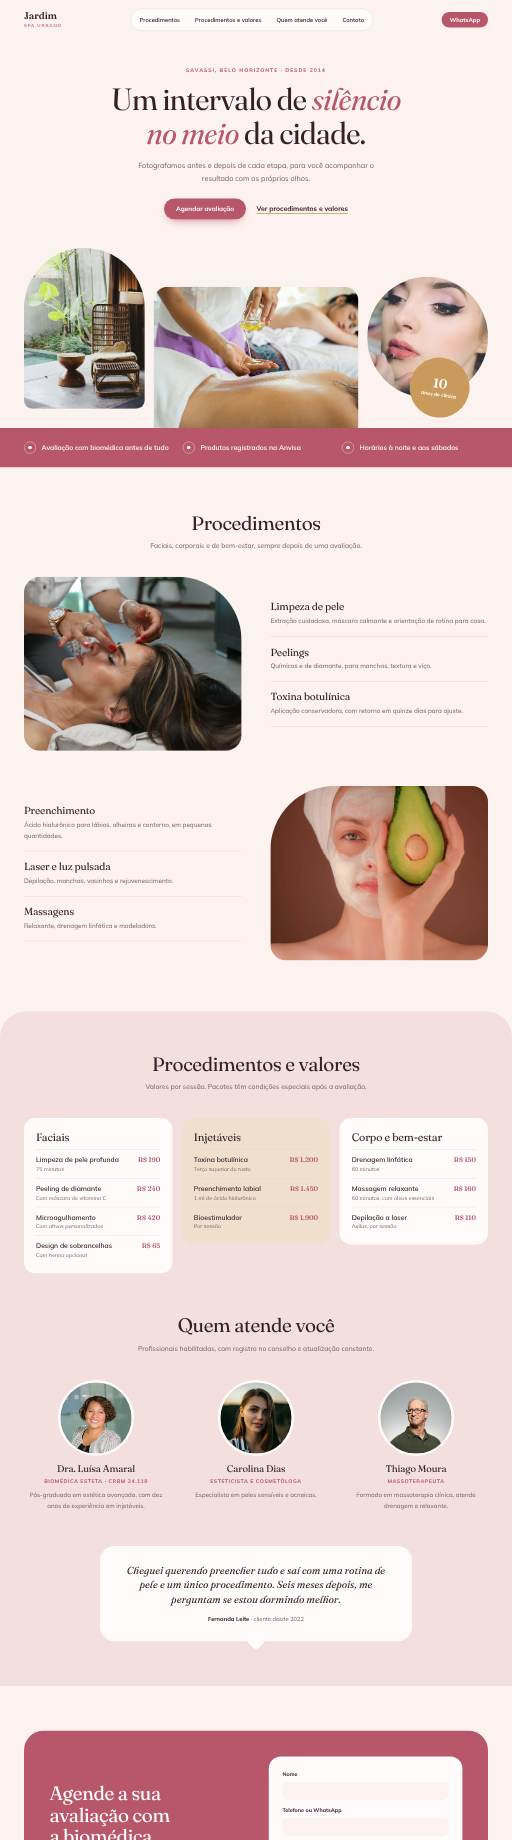
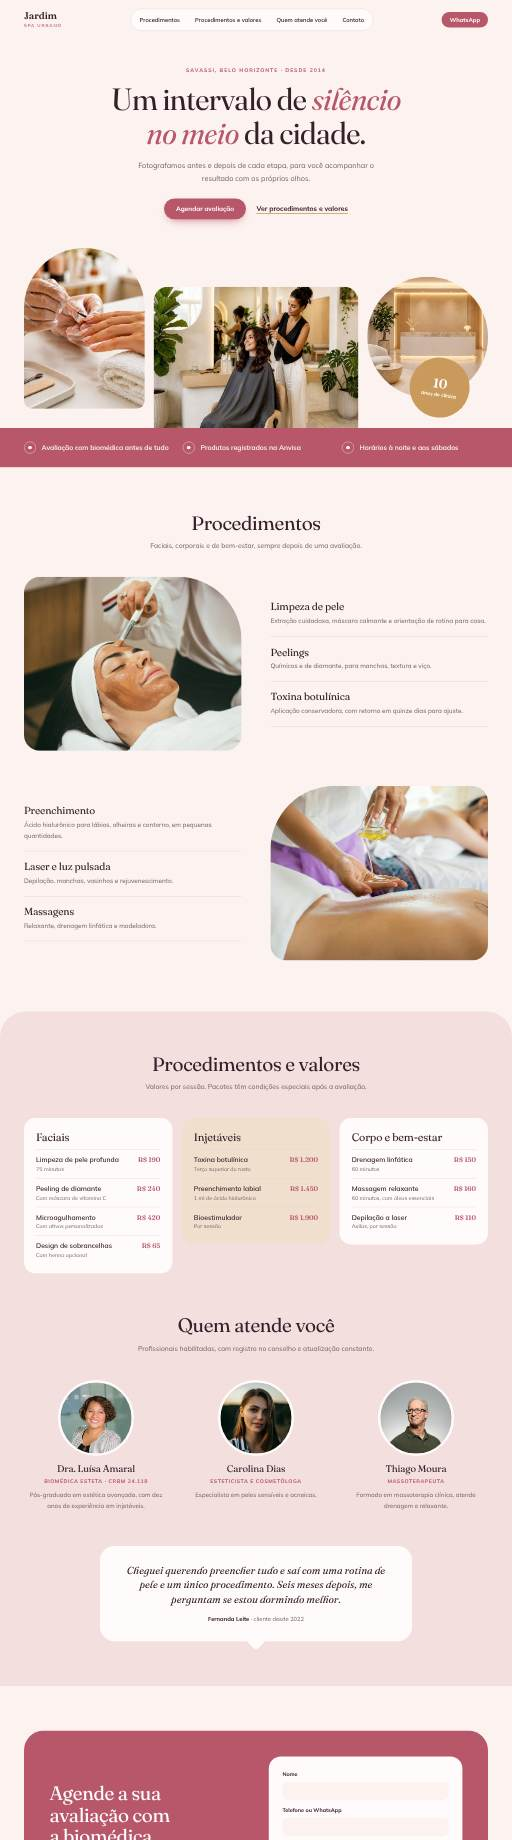
Bring estetica to 10 photos
Claude-Session: https://claude.ai/code/session_0151Yi9K8yWSyYvoKWm1KgPz

Changed region(s): [[0.0312, 0.1239, 0.9688, 0.2478], [0.0312, 0.3098, 0.5, 0.4337], [0.5, 0.4027, 0.9688, 0.5266]]

diff --git a/kolp-modelos/demo/estetica-07/index.html b/kolp-modelos/demo/estetica-07/index.html
@@ -35,7 +35,7 @@
       <p class="lide">Atendimento com hora marcada e sem espera, de segunda a sábado, com horários à noite.</p>
       <div class="acoes"><a class="botao" href="#contato">Agendar avaliação</a><a class="elo" href="#servicos">Ver procedimentos e valores</a></div>
     </div>
-    <figure class="arco"><img src="../../fotos/estetica/1.jpg" alt="" width="1400" height="930"><figcaption>Desde 2014</figcaption></figure>
+    <figure class="arco"><img src="../../fotos/estetica/7.jpg" alt="" width="1400" height="930"><figcaption>Desde 2014</figcaption></figure>
   </div>
   <div class="largura"><dl class="indices"><div><dd>10</dd><dt>anos de clínica</dt></div><div><dd>12 mil</dd><dt>procedimentos realizados</dt></div><div><dd>86%</dd><dt>das clientes voltam em até seis meses</dt></div><div><dd>4,9</dd><dt>nota média no Google</dt></div></dl></div>
   </section>
@@ -43,7 +43,7 @@
     <header class="topo rev"><h2>Procedimentos</h2><p>Faciais, corporais e de bem-estar, sempre depois de uma avaliação.</p></header>
     <ol class="cartoes"><li class="rev"><h3>Limpeza de pele</h3><p>Extração cuidadosa, máscara calmante e orientação de rotina para casa.</p></li><li class="rev"><h3>Peelings</h3><p>Químicos e de diamante, para manchas, textura e viço.</p></li><li class="rev"><h3>Toxina botulínica</h3><p>Aplicação conservadora, com retorno em quinze dias para ajuste.</p></li><li class="rev"><h3>Preenchimento</h3><p>Ácido hialurônico para lábios, olheiras e contorno, em pequenas quantidades.</p></li><li class="rev"><h3>Laser e luz pulsada</h3><p>Depilação, manchas, vasinhos e rejuvenescimento.</p></li><li class="rev"><h3>Massagens</h3><p>Relaxante, drenagem linfática e modeladora.</p></li></ol>
   </div></section>
-  <section class="faixa rev"><img src="../../fotos/estetica/2.jpg" alt="" width="1400" height="930" loading="lazy"><p>“Resultado natural é aquele que ninguém percebe que foi feito”</p></section>
+  <section class="faixa rev"><img src="../../fotos/estetica/8.jpg" alt="" width="1400" height="930" loading="lazy"><p>“Resultado natural é aquele que ninguém percebe que foi feito”</p></section>
   <section class="precos" id="precos"><div class="largura precos-grade">
     <div class="precos-lado rev"><h2>Procedimentos e valores</h2><p>Valores por sessão. Pacotes têm condições especiais após a avaliação.</p><a class="botao" href="#contato">Agendar avaliação</a></div>
     <div class="rev"><details open><summary>Faciais</summary><ul><li><div><b>Limpeza de pele profunda</b><span>75 minutos</span></div><strong>R$ 190</strong></li><li><div><b>Peeling de diamante</b><span>Com máscara de vitamina C</span></div><strong>R$ 240</strong></li><li><div><b>Microagulhamento</b><span>Com ativos personalizados</span></div><strong>R$ 420</strong></li><li><div><b>Design de sobrancelhas</b><span>Com henna opcional</span></div><strong>R$ 65</strong></li></ul></details><details><summary>Injetáveis</summary><ul><li><div><b>Toxina botulínica</b><span>Terço superior do rosto</span></div><strong>R$ 1.200</strong></li><li><div><b>Preenchimento labial</b><span>1 ml de ácido hialurônico</span></div><strong>R$ 1.450</strong></li><li><div><b>Bioestimulador</b><span>Por sessão</span></div><strong>R$ 1.900</strong></li></ul></details><details><summary>Corpo e bem-estar</summary><ul><li><div><b>Drenagem linfática</b><span>60 minutos</span></div><strong>R$ 150</strong></li><li><div><b>Massagem relaxante</b><span>60 minutos, com óleos essenciais</span></div><strong>R$ 160</strong></li><li><div><b>Depilação a laser</b><span>Axilas, por sessão</span></div><strong>R$ 110</strong></li></ul></details></div>

diff --git a/kolp-modelos/demo/estetica-08/index.html b/kolp-modelos/demo/estetica-08/index.html
@@ -34,17 +34,17 @@
     <p class="lide">Fotografamos antes e depois de cada etapa, para você acompanhar o resultado com os próprios olhos.</p>
     <div class="acoes"><a class="botao" href="#contato">Agendar avaliação</a><a class="elo" href="#servicos">Ver procedimentos e valores</a></div>
     <div class="mosaico">
-      <img class="m1" src="../../fotos/estetica/3.jpg" alt="" width="1400" height="930">
-      <img class="m2" src="../../fotos/estetica/2.jpg" alt="" width="1400" height="930">
-      <img class="m3" src="../../fotos/estetica/4.jpg" alt="" width="1400" height="930">
+      <img class="m1" src="../../fotos/estetica/9.jpg" alt="" width="1400" height="930">
+      <img class="m2" src="../../fotos/estetica/8.jpg" alt="" width="1400" height="930">
+      <img class="m3" src="../../fotos/estetica/10.jpg" alt="" width="1400" height="930">
       <p class="selo"><b>10</b>anos de clínica</p>
     </div>
   </div></section>
   <section class="pontos"><ul class="largura"><li class="rev">Avaliação com biomédica antes de tudo</li><li class="rev">Produtos registrados na Anvisa</li><li class="rev">Horários à noite e aos sábados</li></ul></section>
   <section class="servicos" id="servicos"><div class="largura">
     <header class="topo rev"><h2>Procedimentos</h2><p>Faciais, corporais e de bem-estar, sempre depois de uma avaliação.</p></header>
-    <div class="par rev"><img src="../../fotos/estetica/5.jpg" alt="" width="1400" height="930" loading="lazy"><ul><li><h3>Limpeza de pele</h3><p>Extração cuidadosa, máscara calmante e orientação de rotina para casa.</p></li><li><h3>Peelings</h3><p>Químicos e de diamante, para manchas, textura e viço.</p></li><li><h3>Toxina botulínica</h3><p>Aplicação conservadora, com retorno em quinze dias para ajuste.</p></li></ul></div>
-    <div class="par par-inv rev"><img src="../../fotos/estetica/6.jpg" alt="" width="1400" height="930" loading="lazy"><ul><li><h3>Preenchimento</h3><p>Ácido hialurônico para lábios, olheiras e contorno, em pequenas quantidades.</p></li><li><h3>Laser e luz pulsada</h3><p>Depilação, manchas, vasinhos e rejuvenescimento.</p></li><li><h3>Massagens</h3><p>Relaxante, drenagem linfática e modeladora.</p></li></ul></div>
+    <div class="par rev"><img src="../../fotos/estetica/1.jpg" alt="" width="1400" height="930" loading="lazy"><ul><li><h3>Limpeza de pele</h3><p>Extração cuidadosa, máscara calmante e orientação de rotina para casa.</p></li><li><h3>Peelings</h3><p>Químicos e de diamante, para manchas, textura e viço.</p></li><li><h3>Toxina botulínica</h3><p>Aplicação conservadora, com retorno em quinze dias para ajuste.</p></li></ul></div>
+    <div class="par par-inv rev"><img src="../../fotos/estetica/2.jpg" alt="" width="1400" height="930" loading="lazy"><ul><li><h3>Preenchimento</h3><p>Ácido hialurônico para lábios, olheiras e contorno, em pequenas quantidades.</p></li><li><h3>Laser e luz pulsada</h3><p>Depilação, manchas, vasinhos e rejuvenescimento.</p></li><li><h3>Massagens</h3><p>Relaxante, drenagem linfática e modeladora.</p></li></ul></div>
   </div></section>
   <section class="precos" id="precos"><div class="largura">
     <header class="topo rev"><h2>Procedimentos e valores</h2><p>Valores por sessão. Pacotes têm condições especiais após a avaliação.</p></header>

diff --git a/kolp-modelos/demo/estetica-10/index.html b/kolp-modelos/demo/estetica-10/index.html
@@ -30,7 +30,7 @@
 <div class="conteudo">
 <main>
   <section class="abertura">
-    <img src="../../fotos/estetica/4.jpg" alt="" width="1400" height="930">
+    <img src="../../fotos/estetica/10.jpg" alt="" width="1400" height="930">
     <div class="legenda"><p class="rotulo">Desde 2014 · Savassi, Belo Horizonte</p><h1>O salão onde todo mundo sabe como você gosta do cabelo.</h1></div>
   </section>
   <section class="sobre" id="sobre">
@@ -41,7 +41,7 @@
     <header class="topo"><h2>Procedimentos</h2><p>Faciais, corporais e de bem-estar, sempre depois de uma avaliação.</p></header>
     <ul class="servicos"><li><h3>Limpeza de pele</h3><p>Extração cuidadosa, máscara calmante e orientação de rotina para casa.</p></li><li><h3>Peelings</h3><p>Químicos e de diamante, para manchas, textura e viço.</p></li><li><h3>Toxina botulínica</h3><p>Aplicação conservadora, com retorno em quinze dias para ajuste.</p></li><li><h3>Preenchimento</h3><p>Ácido hialurônico para lábios, olheiras e contorno, em pequenas quantidades.</p></li><li><h3>Laser e luz pulsada</h3><p>Depilação, manchas, vasinhos e rejuvenescimento.</p></li><li><h3>Massagens</h3><p>Relaxante, drenagem linfática e modeladora.</p></li></ul>
   </section>
-  <figure class="citacao"><img src="../../fotos/estetica/5.jpg" alt="" width="1400" height="930" loading="lazy"><blockquote>“Resultado natural é aquele que ninguém percebe que foi feito”</blockquote></figure>
+  <figure class="citacao"><img src="../../fotos/estetica/1.jpg" alt="" width="1400" height="930" loading="lazy"><blockquote>“Resultado natural é aquele que ninguém percebe que foi feito”</blockquote></figure>
   <section id="equipe">
     <header class="topo"><h2>Quem atende você</h2><p>Profissionais habilitadas, com registro no conselho e atualização constante.</p></header>
     <div class="equipe"><article><img src="../../fotos/retratos/f3.jpg" alt="Retrato de Dra. Luísa Amaral" width="560" height="680" loading="lazy"><div><h3>Dra. Luísa Amaral</h3><p class="cargo">Biomédica esteta · CRBM 24.118</p><p>Pós-graduada em estética avançada, com dez anos de experiência em injetáveis.</p></div></article><article><img src="../../fotos/retratos/f4.jpg" alt="Retrato de Carolina Dias" width="560" height="680" loading="lazy"><div><h3>Carolina Dias</h3><p class="cargo">Esteticista e cosmetóloga</p><p>Especialista em peles sensíveis e acneicas.</p></div></article><article><img src="../../fotos/retratos/m3.jpg" alt="Retrato de Thiago Moura" width="560" height="680" loading="lazy"><div><h3>Thiago Moura</h3><p class="cargo">Massoterapeuta</p><p>Formado em massoterapia clínica, atende drenagem e relaxante.</p></div></article></div>

diff --git a/kolp-modelos/demo/estetica-09/index.html b/kolp-modelos/demo/estetica-09/index.html
@@ -30,7 +30,7 @@
 </div></header>
 <main>
   <section class="abertura">
-    <img src="../../fotos/estetica/3.jpg" alt="" width="1400" height="930">
+    <img src="../../fotos/estetica/9.jpg" alt="" width="1400" height="930">
     <div class="abertura-bloco"><div>
       <p class="rotulo">Savassi, Belo Horizonte</p>
       <h1>Corte, barba e conversa boa, sem fila de espera.</h1>
@@ -51,7 +51,7 @@
     <header class="topo"><h2>Procedimentos e valores</h2><p>Valores por sessão. Pacotes têm condições especiais após a avaliação.</p></header>
     <div class="tabela-rolagem"><table><tbody><tr class="grupo"><th colspan="3">Faciais</th></tr><tr><th>Limpeza de pele profunda</th><td>75 minutos</td><td>R$ 190</td></tr><tr><th>Peeling de diamante</th><td>Com máscara de vitamina C</td><td>R$ 240</td></tr><tr><th>Microagulhamento</th><td>Com ativos personalizados</td><td>R$ 420</td></tr><tr><th>Design de sobrancelhas</th><td>Com henna opcional</td><td>R$ 65</td></tr></tbody><tbody><tr class="grupo"><th colspan="3">Injetáveis</th></tr><tr><th>Toxina botulínica</th><td>Terço superior do rosto</td><td>R$ 1.200</td></tr><tr><th>Preenchimento labial</th><td>1 ml de ácido hialurônico</td><td>R$ 1.450</td></tr><tr><th>Bioestimulador</th><td>Por sessão</td><td>R$ 1.900</td></tr></tbody><tbody><tr class="grupo"><th colspan="3">Corpo e bem-estar</th></tr><tr><th>Drenagem linfática</th><td>60 minutos</td><td>R$ 150</td></tr><tr><th>Massagem relaxante</th><td>60 minutos, com óleos essenciais</td><td>R$ 160</td></tr><tr><th>Depilação a laser</th><td>Axilas, por sessão</td><td>R$ 110</td></tr></tbody></table></div>
   </div></section>
-  <section class="prova"><img src="../../fotos/estetica/4.jpg" alt="" width="1400" height="930" loading="lazy">
+  <section class="prova"><img src="../../fotos/estetica/10.jpg" alt="" width="1400" height="930" loading="lazy">
     <blockquote><p>“Cheguei querendo preencher tudo e saí com uma rotina de pele e um único procedimento. Seis meses depois, me perguntam se estou dormindo melhor.”</p><footer><b>Fernanda Leite</b> cliente desde 2022</footer></blockquote>
   </section>
   <section class="contato" id="contato"><div class="largura contato-grade">

diff --git a/kolp-modelos/demo/estetica-06/index.html b/kolp-modelos/demo/estetica-06/index.html
@@ -44,7 +44,7 @@
     <div><p class="frase rev">Resultado natural é aquele que ninguém percebe que foi feito</p>
       <ol class="etapas"><li class="rev"><span>Etapa 1</span><h3>Avaliação</h3><p>Quarenta minutos com a biomédica, com análise de pele e fotos.</p></li><li class="rev"><span>Etapa 2</span><h3>Plano</h3><p>Você recebe as etapas, os intervalos e os valores. Sem pacote obrigatório.</p></li><li class="rev"><span>Etapa 3</span><h3>Procedimento</h3><p>Feito com calma, explicando cada passo.</p></li><li class="rev"><span>Etapa 4</span><h3>Retorno</h3><p>Quinze dias depois, para acompanhar o resultado e ajustar.</p></li></ol></div>
   </div></section>
-  <figure class="faixa-foto rev"><img src="../../fotos/estetica/1.jpg" alt="" width="1400" height="930" loading="lazy"></figure>
+  <figure class="faixa-foto rev"><img src="../../fotos/estetica/7.jpg" alt="" width="1400" height="930" loading="lazy"></figure>
   <section class="casos" id="resultados"><div class="largura bloco">
     <h2 class="rotulo">03 — Resultados</h2>
     <div><article class="rev"><p class="resultado">10<small>anos de clínica</small></p><div><h3>Fidelidade</h3><p>Boa parte das nossas clientes está conosco desde o primeiro ano.</p></div></article><article class="rev"><p class="resultado">12 mil<small>procedimentos realizados</small></p><div><h3>Experiência</h3><p>Uma equipe de seis profissionais, todas com pós-graduação na área.</p></div></article><article class="rev"><p class="resultado">86%<small>das clientes voltam em até seis meses</small></p><div><h3>Acompanhamento</h3><p>Retorno gratuito quinze dias depois de cada procedimento injetável.</p></div></article></div>

diff --git a/kolp-modelos/demo/estetica-05/index.html b/kolp-modelos/demo/estetica-05/index.html
@@ -52,7 +52,7 @@
       <a class="botao botao-grande" href="https://wa.me/5511999999999?text=Ol%C3%A1!%20Vim%20pelo%20site.">Agendar avaliação</a></div>
   </div></section>
   <section class="loja" id="local">
-    <img class="loja-fundo" src="../../fotos/estetica/1.jpg" alt="" width="1400" height="930" loading="lazy">
+    <img class="loja-fundo" src="../../fotos/estetica/7.jpg" alt="" width="1400" height="930" loading="lazy">
     <div class="largura loja-grade"><div class="cartao">
       <h2>Agende a sua avaliação com a biomédica</h2>
       <p class="endereco">Rua Pernambuco, 1.070 — Savassi, Belo Horizonte</p>
